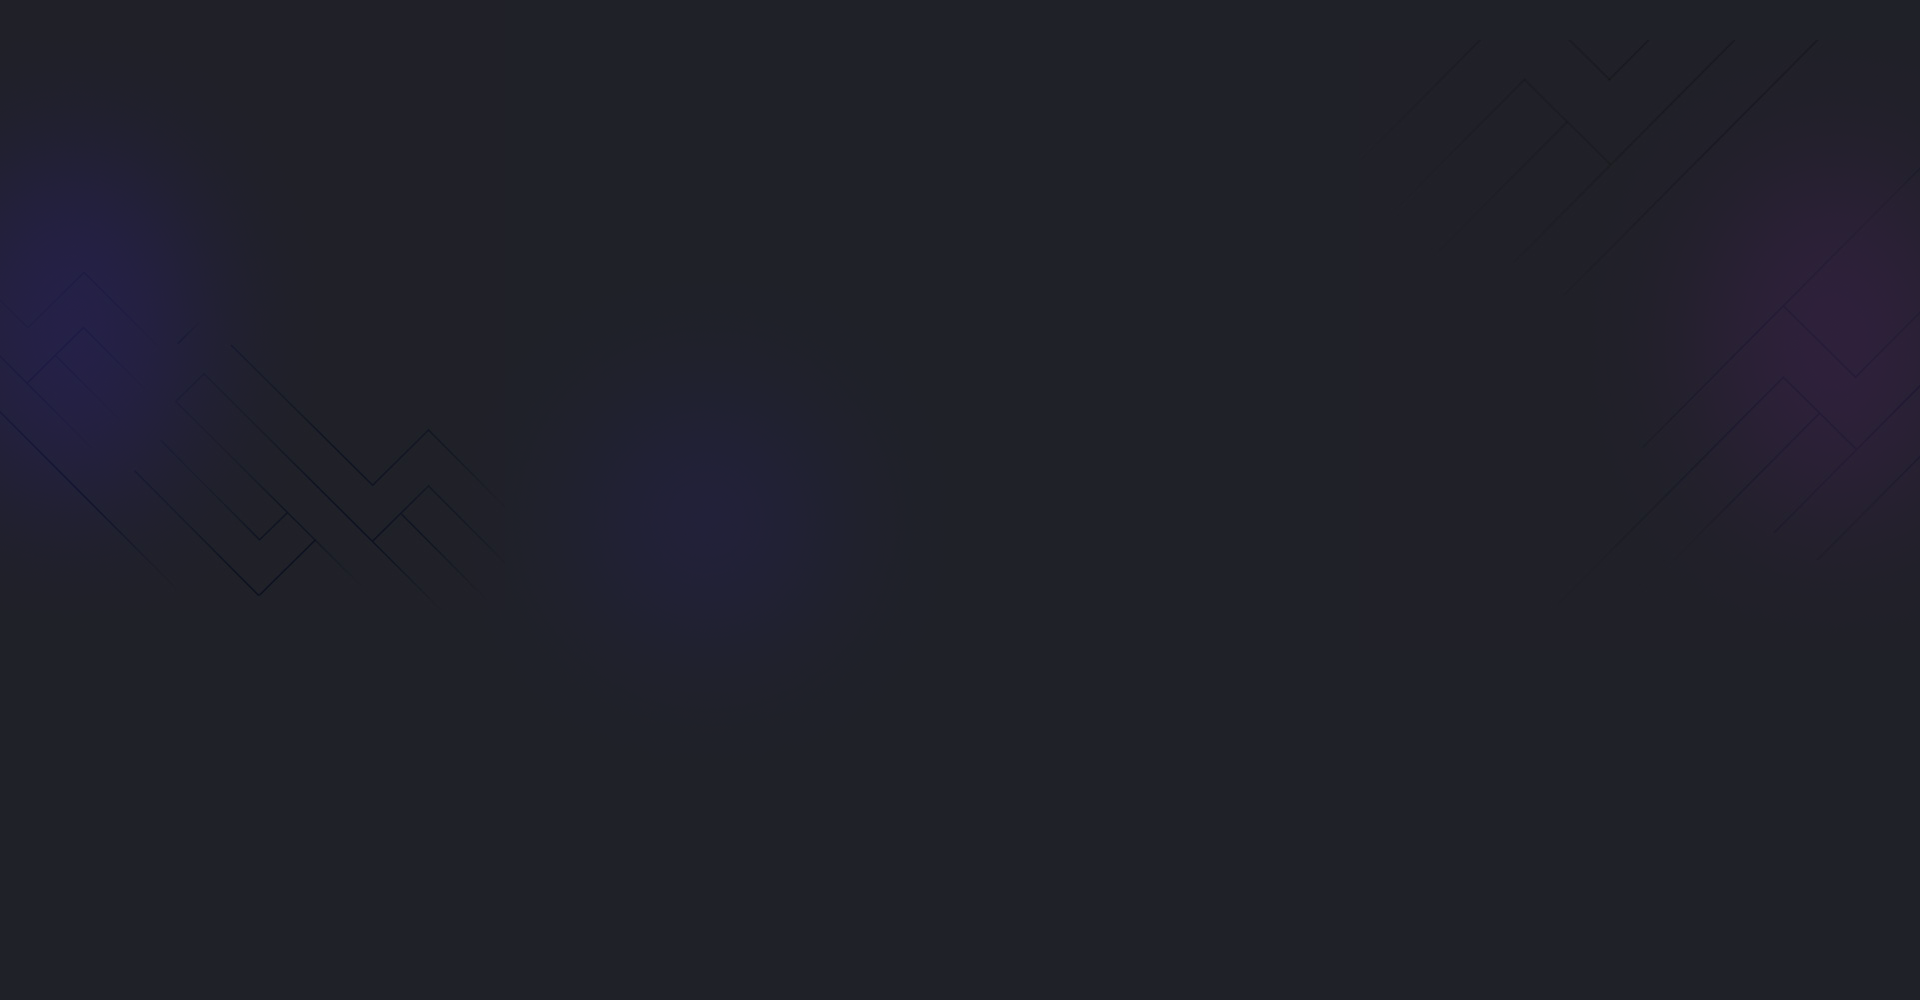
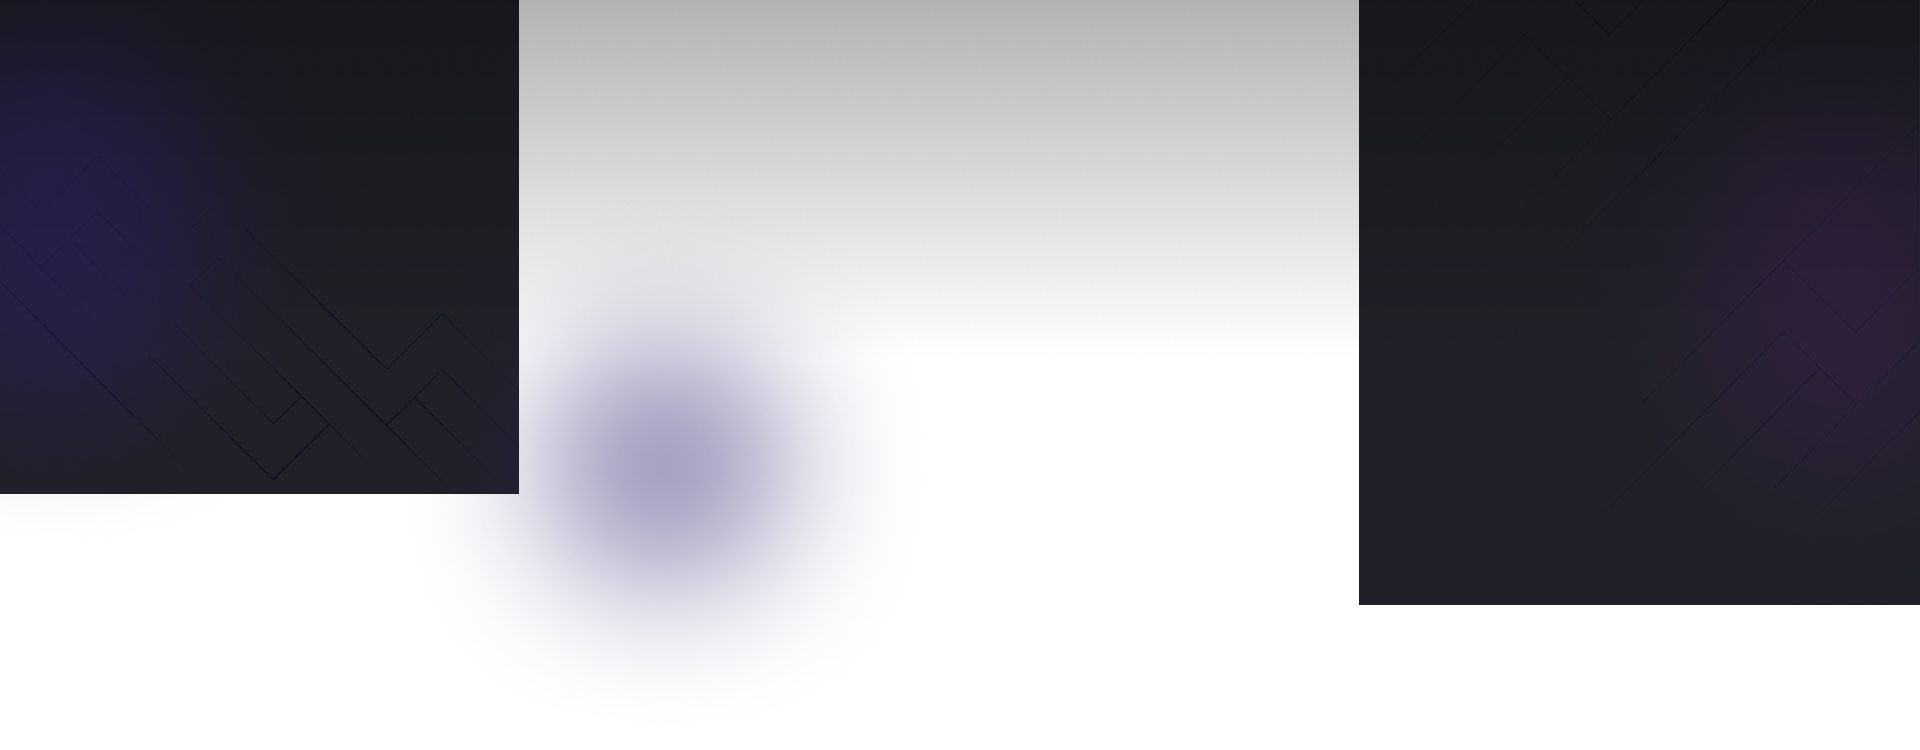
修改背景颜色以及去掉一些打印
修改背景颜色以及去掉一些打印

diff --git a/layouts/default.vue b/layouts/default.vue
@@ -22,33 +22,16 @@ export default {
   min-height: 100vh;
   &__page {
     overflow: hidden;
-    background: url('~assets/img/home/bg.png') no-repeat center -45px;
-    background-size: 100% 1000px;
-    position: relative;
-    &::before {
-      content: '';
-      position: absolute;
-      left: 0;
-      top: 0;
-      width: 100%;
-      height: 360px;
-      background: linear-gradient(
-        180deg,
-        rgba(0, 0, 0, 0.3) 0%,
-        rgba(0, 0, 0, 0) 100%
-      );
-    }
+    background: url('~assets/img/home/bg.png') no-repeat center top;
+    background-size: 100% 750px;
   }
 }
 @media (max-width: 750px) {
   $pr: math.div(1vw, 3.75);
   .main {
     &__page {
-      background: url('~assets/img/home/h5bg.png') no-repeat center 0;
-      background-size: 100% 500 * $pr;
-      &::before {
-        height: 360 * $pr;
-      }
+      background: url('~assets/img/home/h5bg.png') no-repeat center top;
+      background-size: 100% 520 * $pr;
     }
   }
 }

diff --git a/pages/category/_title.vue b/pages/category/_title.vue
@@ -93,7 +93,6 @@ export default {
             cate_name: params.title.toLowerCase(),
           })
           .then((res) => {
-            console.log(res)
             return res.list || []
           }),
         $apiList.home
@@ -103,7 +102,6 @@ export default {
             size: 10,
           })
           .then((res) => {
-            console.log(res)
             return res || []
           }),
       ])

diff --git a/pages/search/_title.vue b/pages/search/_title.vue
@@ -67,7 +67,6 @@ export default {
             name: params.title,
           })
           .then((res) => {
-            console.log(res)
             return res || []
           }),
         $apiList.home
